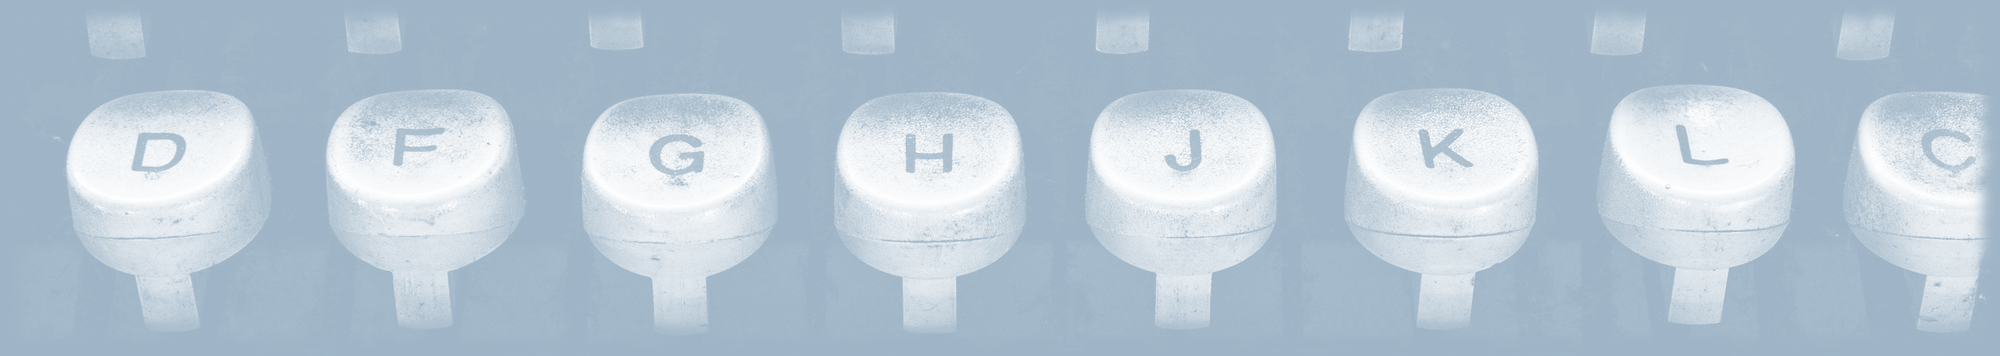
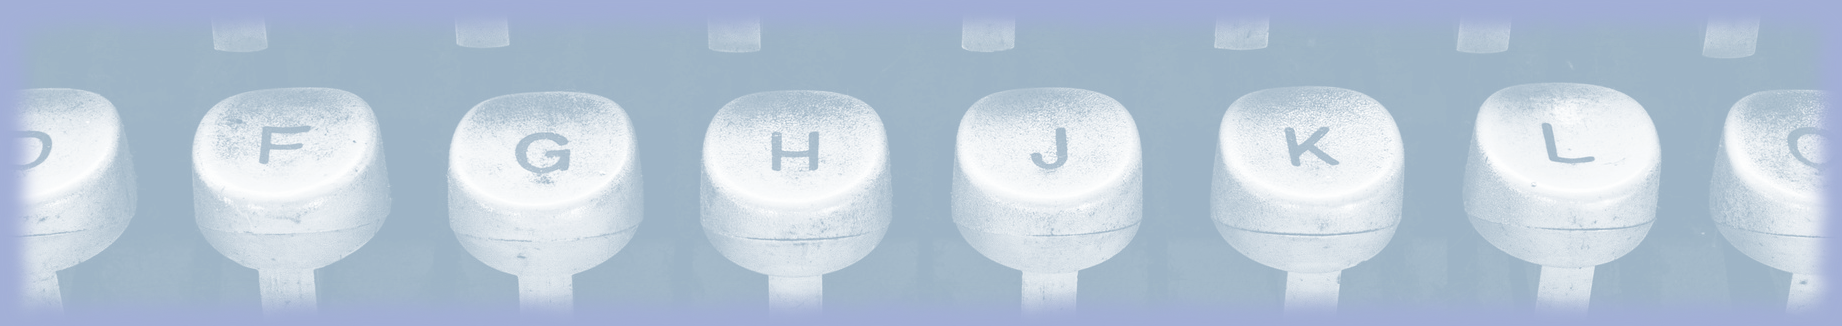
final v1

diff --git a/index.html b/index.html
@@ -26,16 +26,18 @@
       .jumbotron.cms {
         background-image: url('cms.png');
         background-repeat: no-repeat;
-        background-position: center top;
+        background-position: center center;
         background-color: #9fb5c7;
       }
       .jumbotron.agile {
         background-image: url('agile.png');
         background-repeat: no-repeat;
-        background-position: center top;
-        background-color: #8294c9;
+        background-position: center center;
+        background-color: #f7c8f7;
       }
       .footer {
+        padding-top: 1em;
+        padding-bottom: 1em;
         background-color: #ffa300;
         color: #231123;
       }
